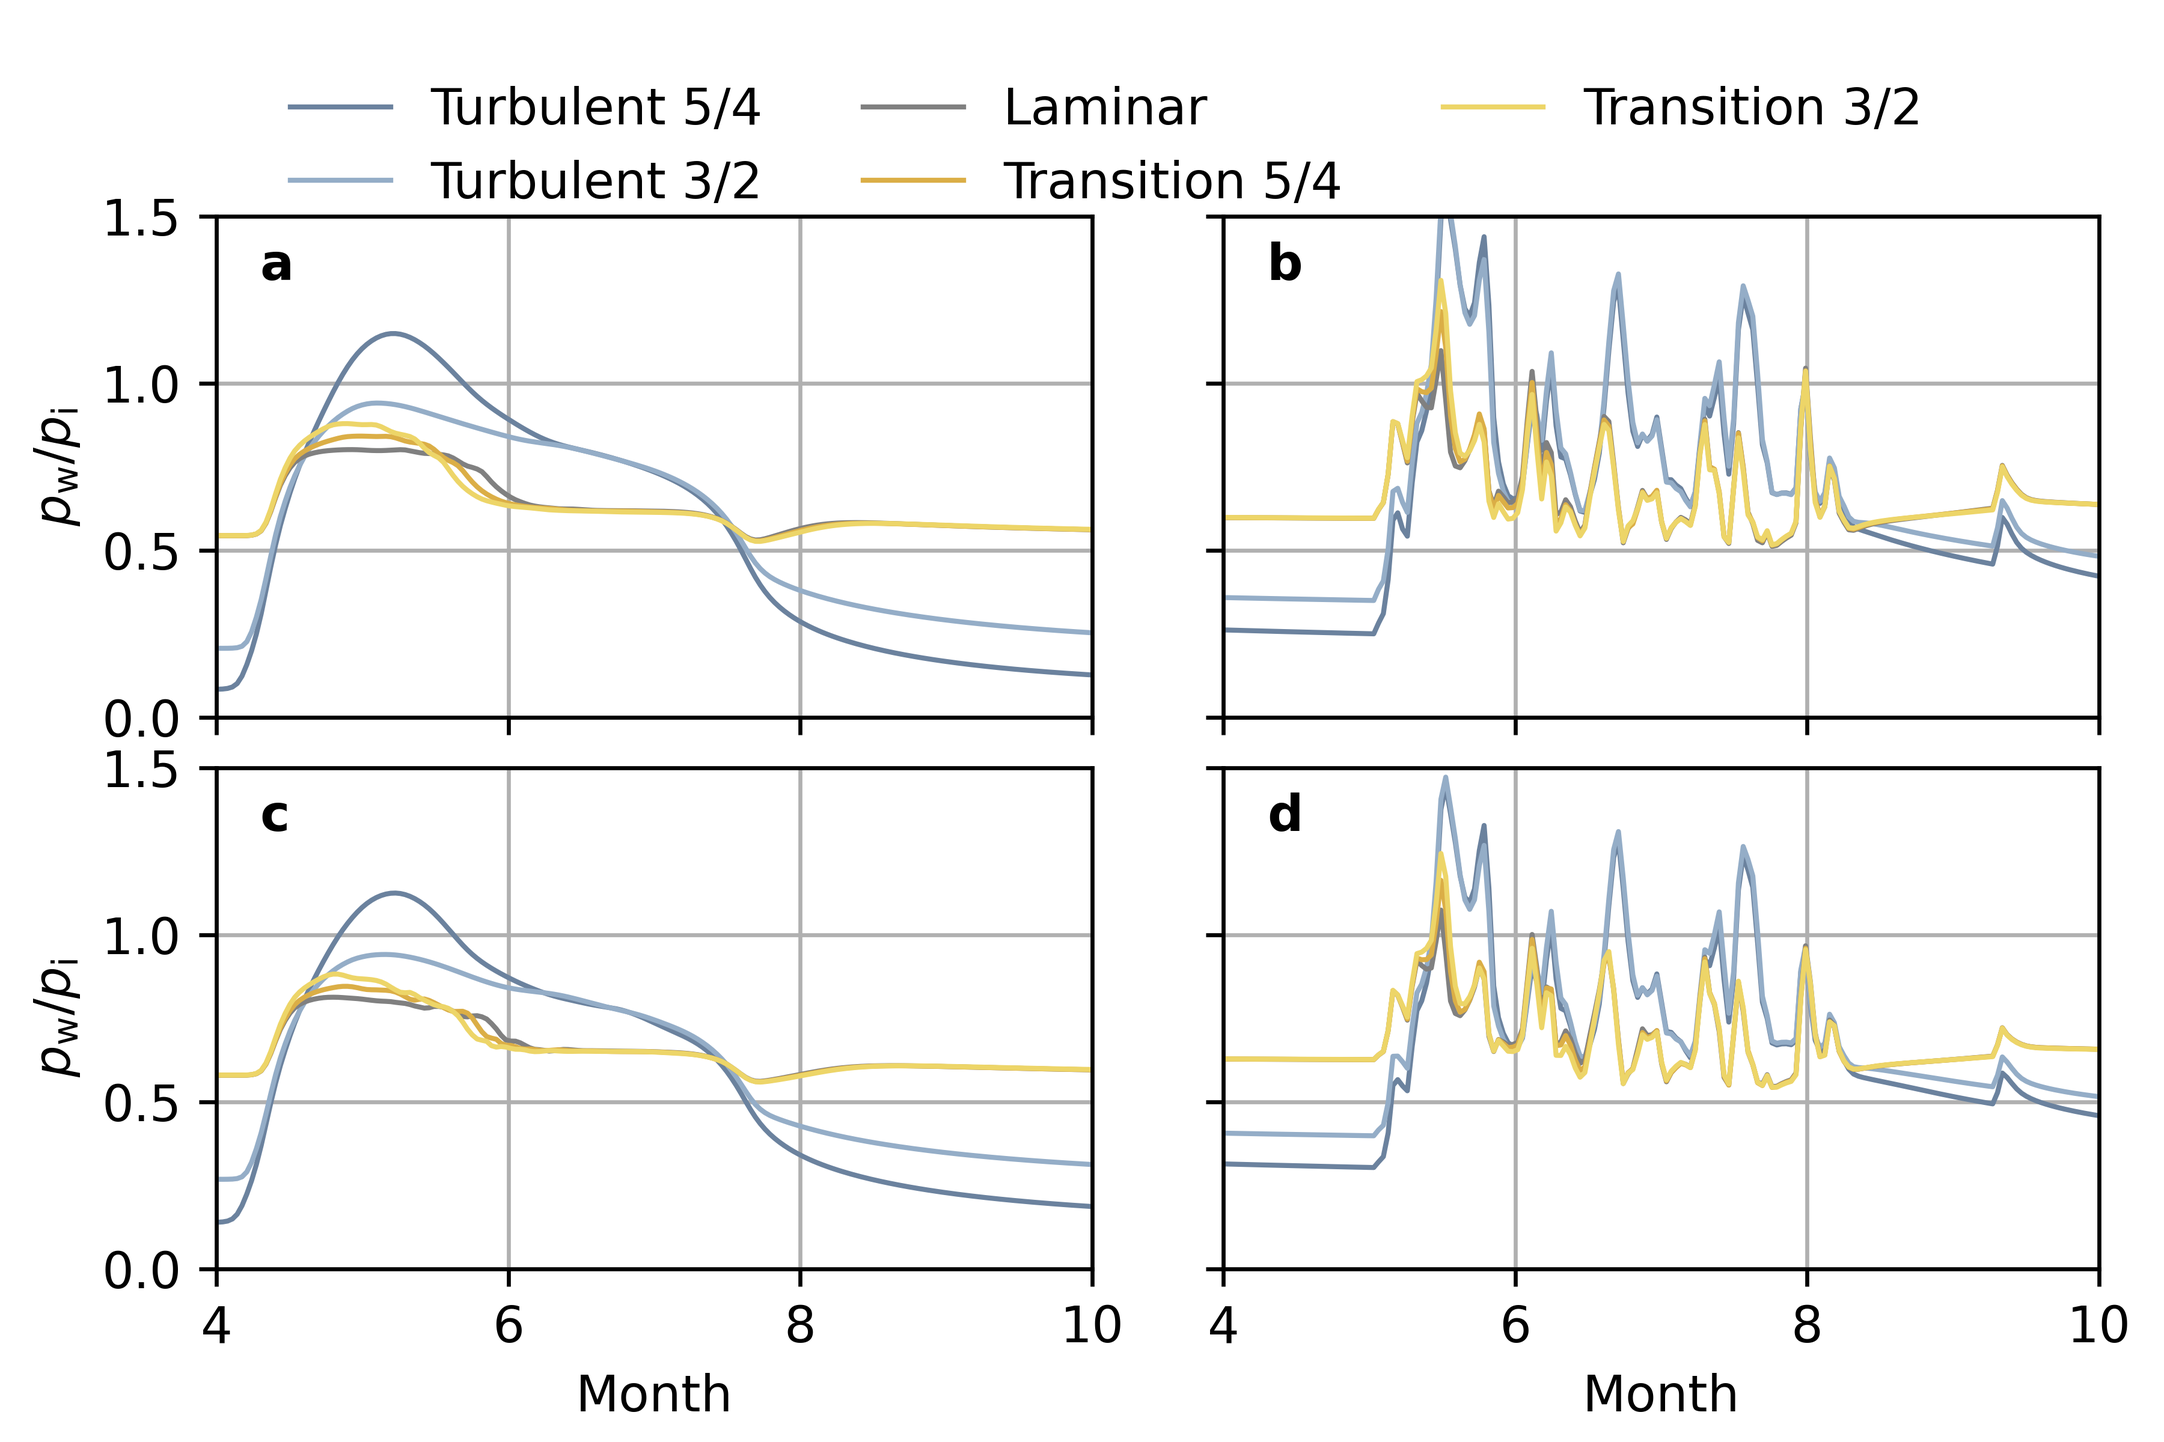
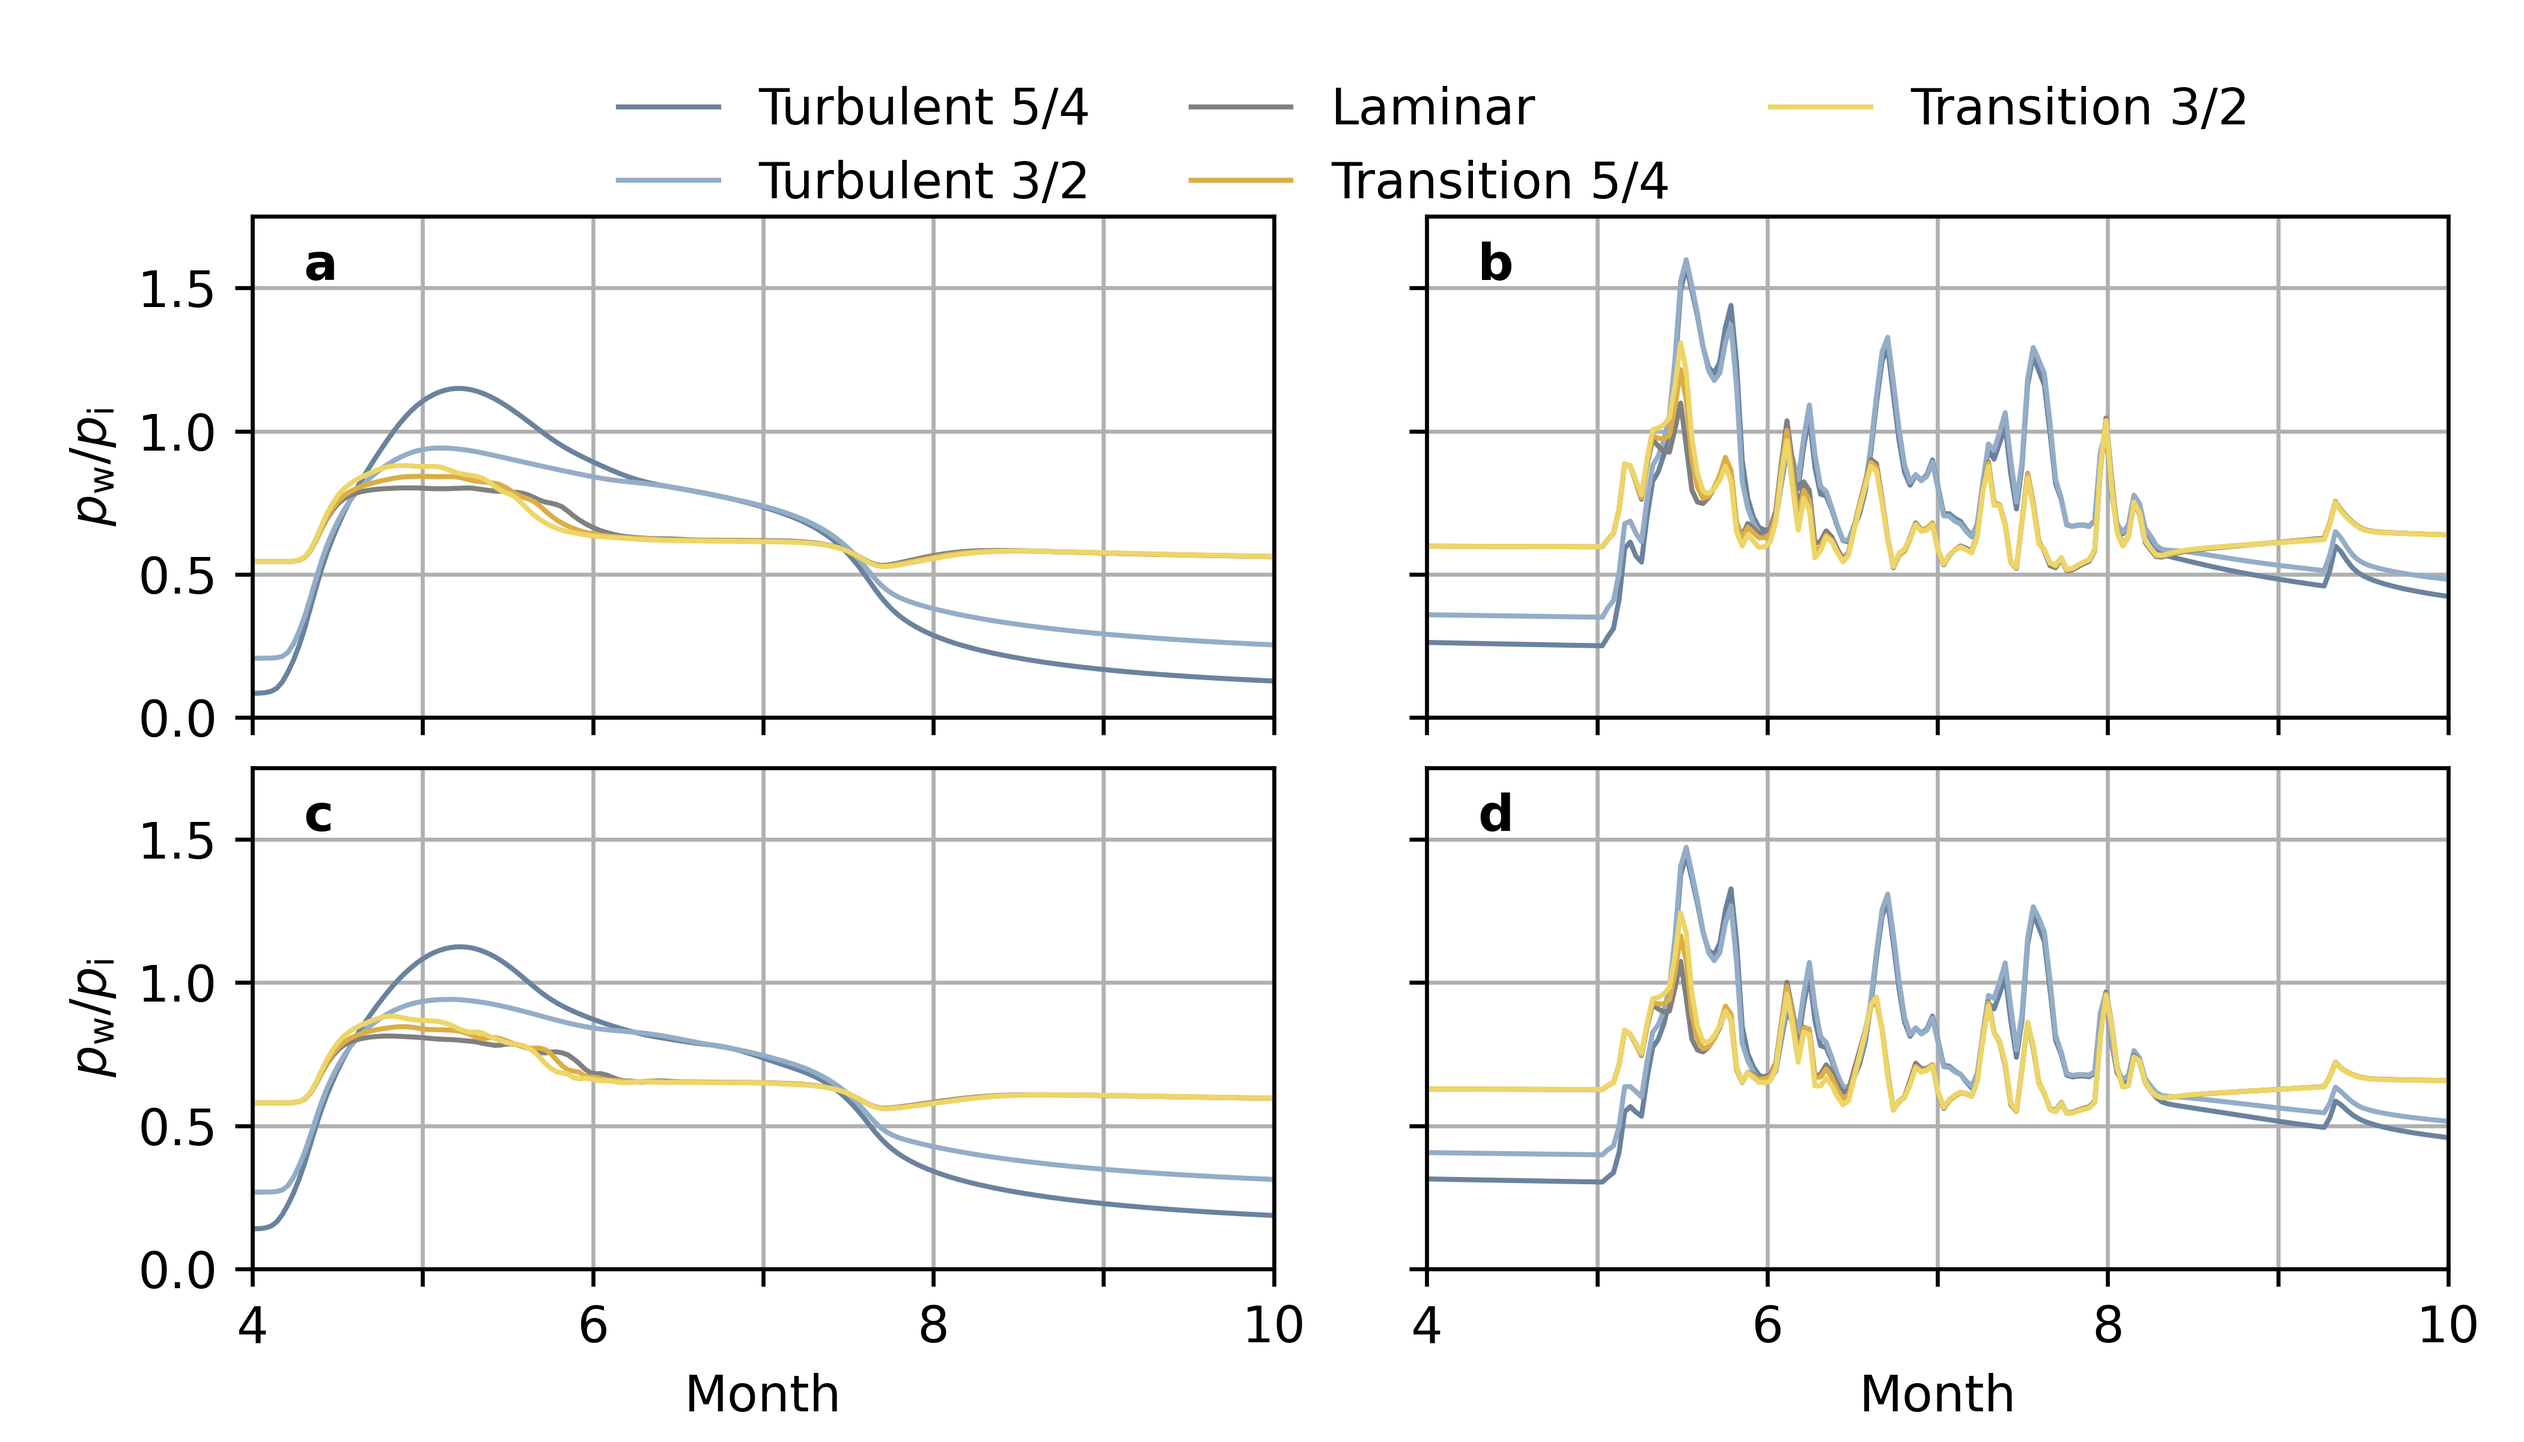
Limits and labels

diff --git a/analysis/make_grid.py b/analysis/make_grid.py
@@ -4,6 +4,8 @@ Call plot_pressure_maps_timeseries.py to make pressure figures
 
 """
 
+import numpy as np
+
 from matplotlib import pyplot as plt
 
 from plot_pressure_grid import plot_pressure_grid
@@ -11,8 +13,9 @@ from plot_pressure_grid import plot_pressure_grid
 ## Global
 
 t_lim = [1 + 4/12, 1 + 10/12]
-t_ticks = [1 + 4/12, 1 + 6/12, 1 + 8/12, 1 + 10/12] 
-t_ticklabels = ['4', '6', '8', '10']
+t_ticks = 1 + np.arange(4, 11)/12
+t_ticklabels = ['4', '', '6', '', '8', '', '10']
+ff_ylim = [0, 1.75]
 
 cases = [[1, 2, 3, 4, 5],
          [101, 102, 103, 104, 105],
@@ -30,6 +33,6 @@ fnames = [[patterns[j] % cases[j][i] for i in range(5)] for j in range(4)]
 figname = 'pressure_grid.png'
 fig_00 = plot_pressure_grid(fnames, figname,
     tlim=t_lim, t_ticks=t_ticks, t_ticklabels=t_ticklabels,
-    xlabel='Month')
+    xlabel='Month', ff_ylim=ff_ylim)
 
 plt.show()

diff --git a/analysis/plot_pressure_grid.py b/analysis/plot_pressure_grid.py
@@ -9,14 +9,14 @@ Plot 2x2 grid of water pressure timeseries:
 import numpy as np
 from matplotlib import pyplot as plt
 from matplotlib import gridspec
-from matplotlib.tri import Triangulation
+from matplotlib.ticker import (MultipleLocator, AutoMinorLocator)
 import netCDF4 as nc
 
 import helpers
 import defaults
 
 
-figsize=(6, 4)
+figsize=(7, 4)
 
 
 def plot_pressure_grid(fnames, figname,
@@ -110,6 +110,7 @@ def plot_pressure_grid(fnames, figname,
         ax.grid()
         ax.set_xlim(tlim)
         ax.set_xticks(t_ticks)
+
 
         if t_ticklabels:
             ax.set_xticklabels(t_ticklabels)
